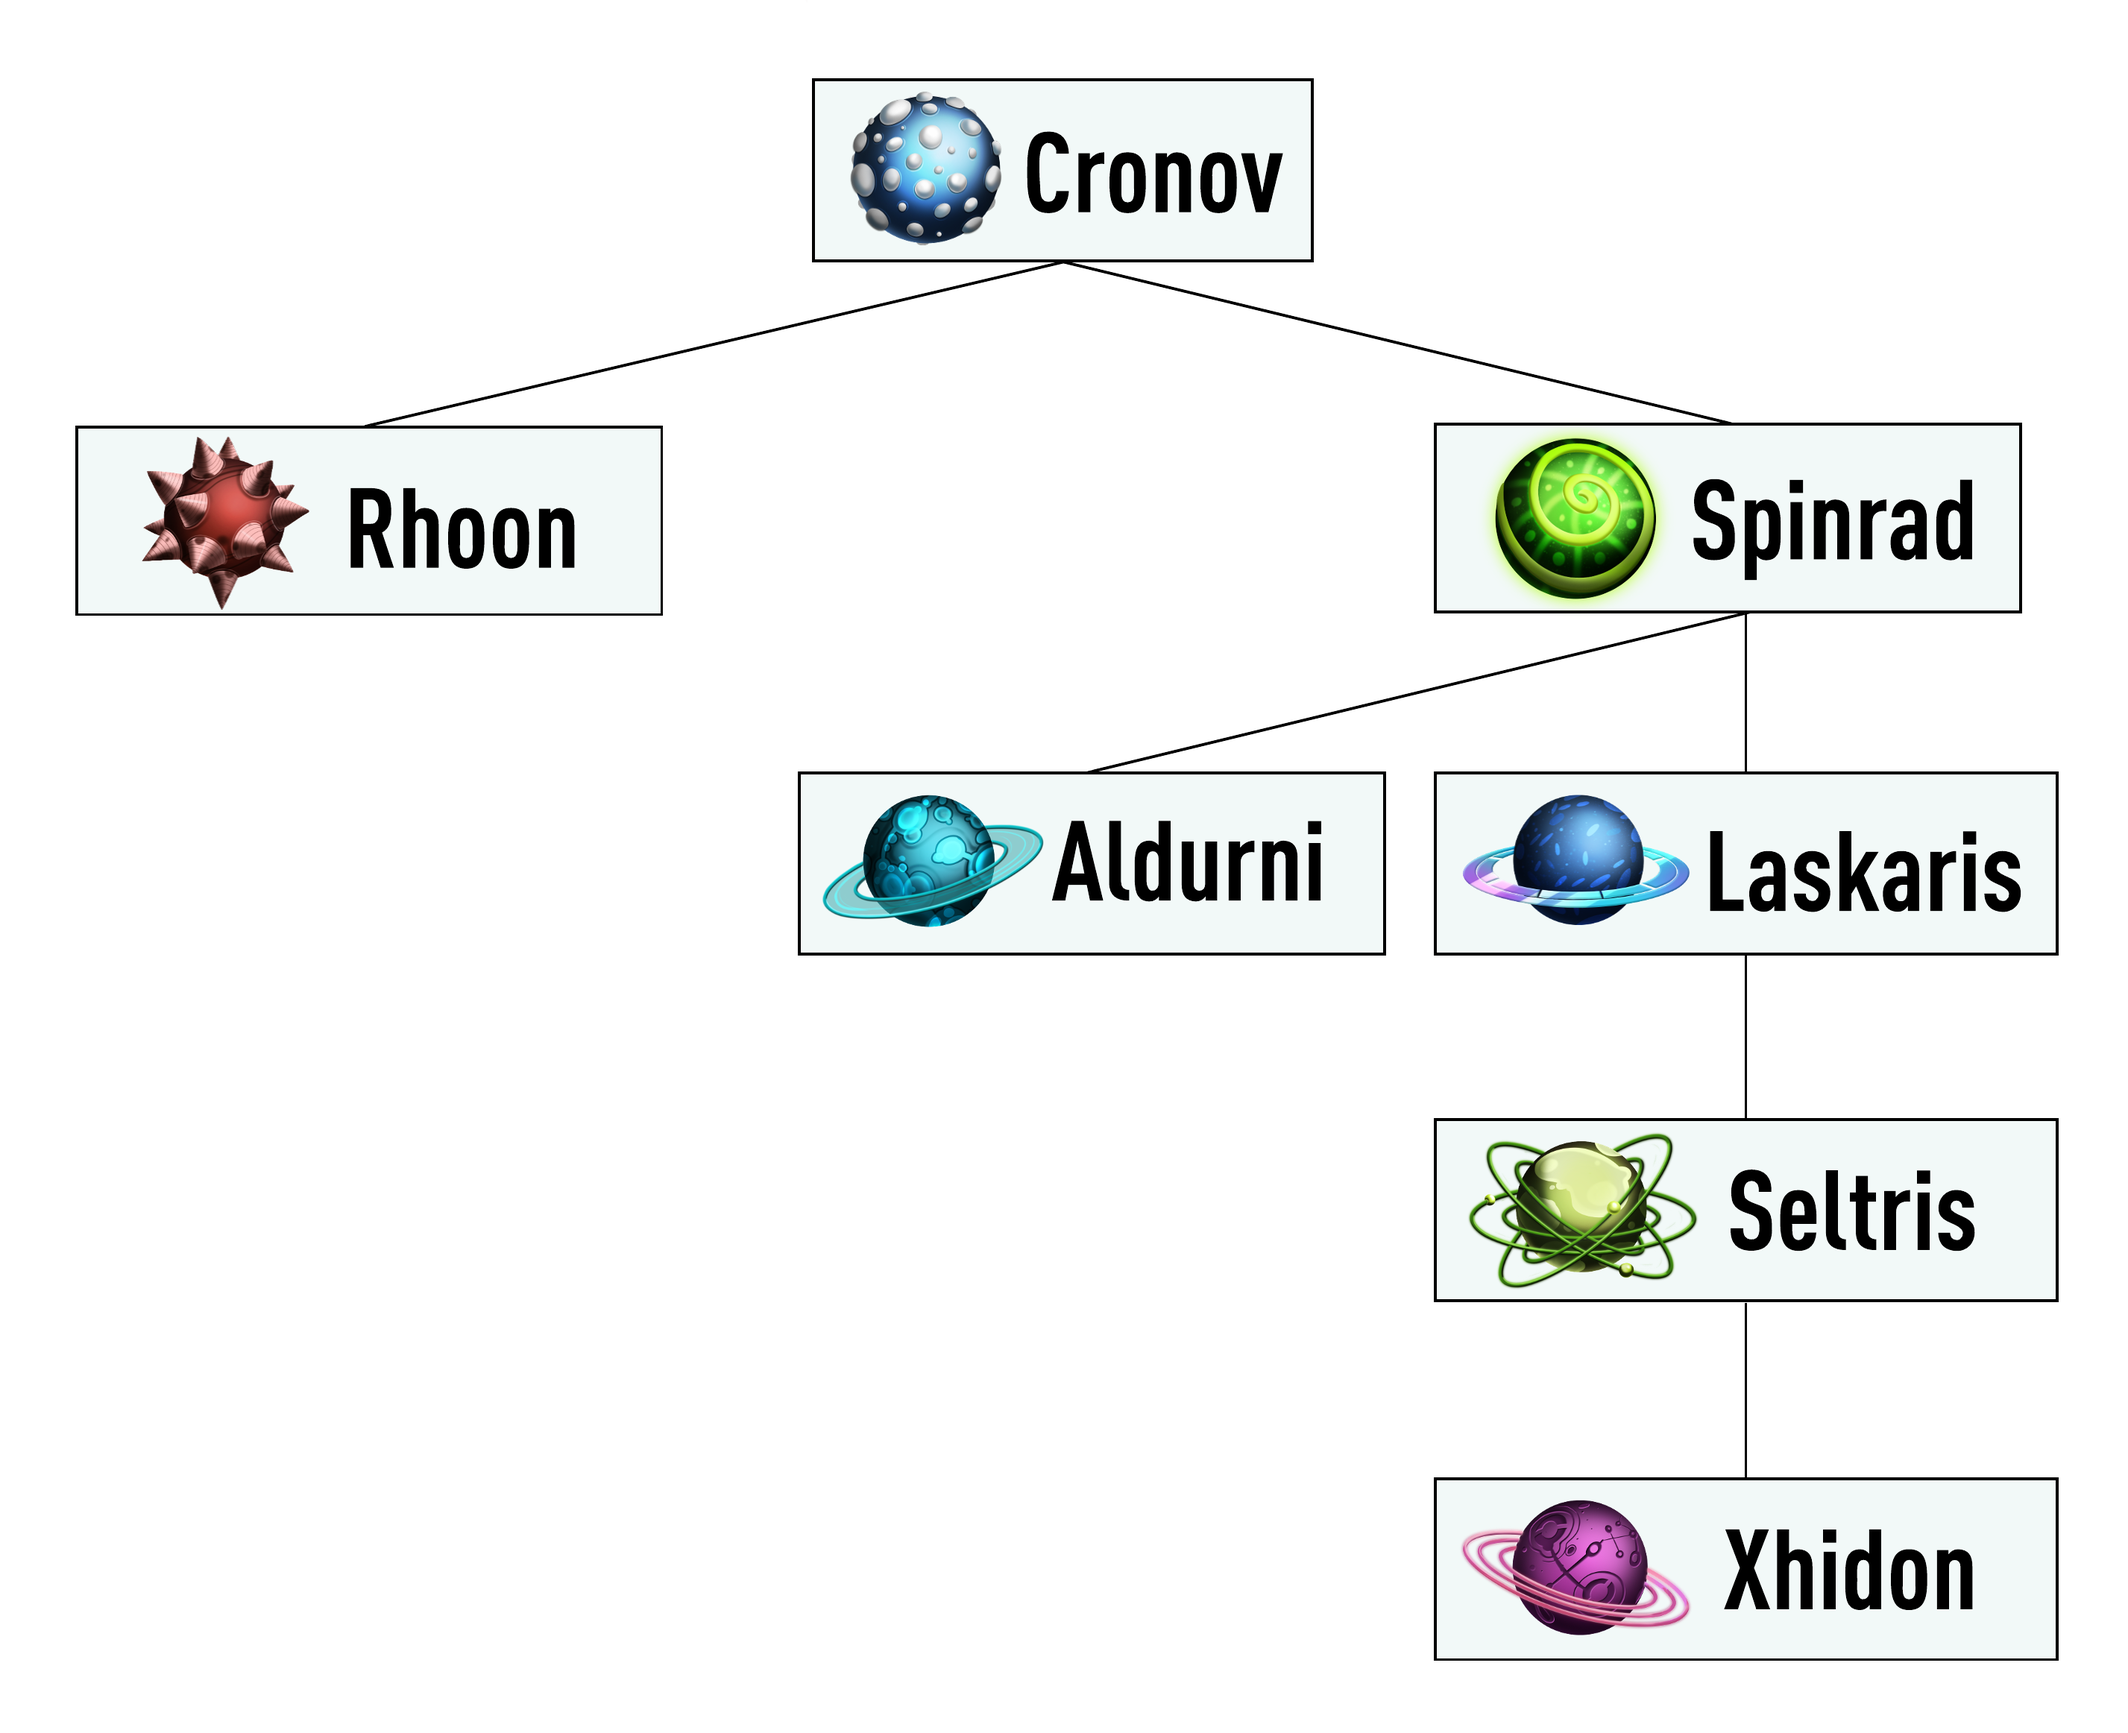
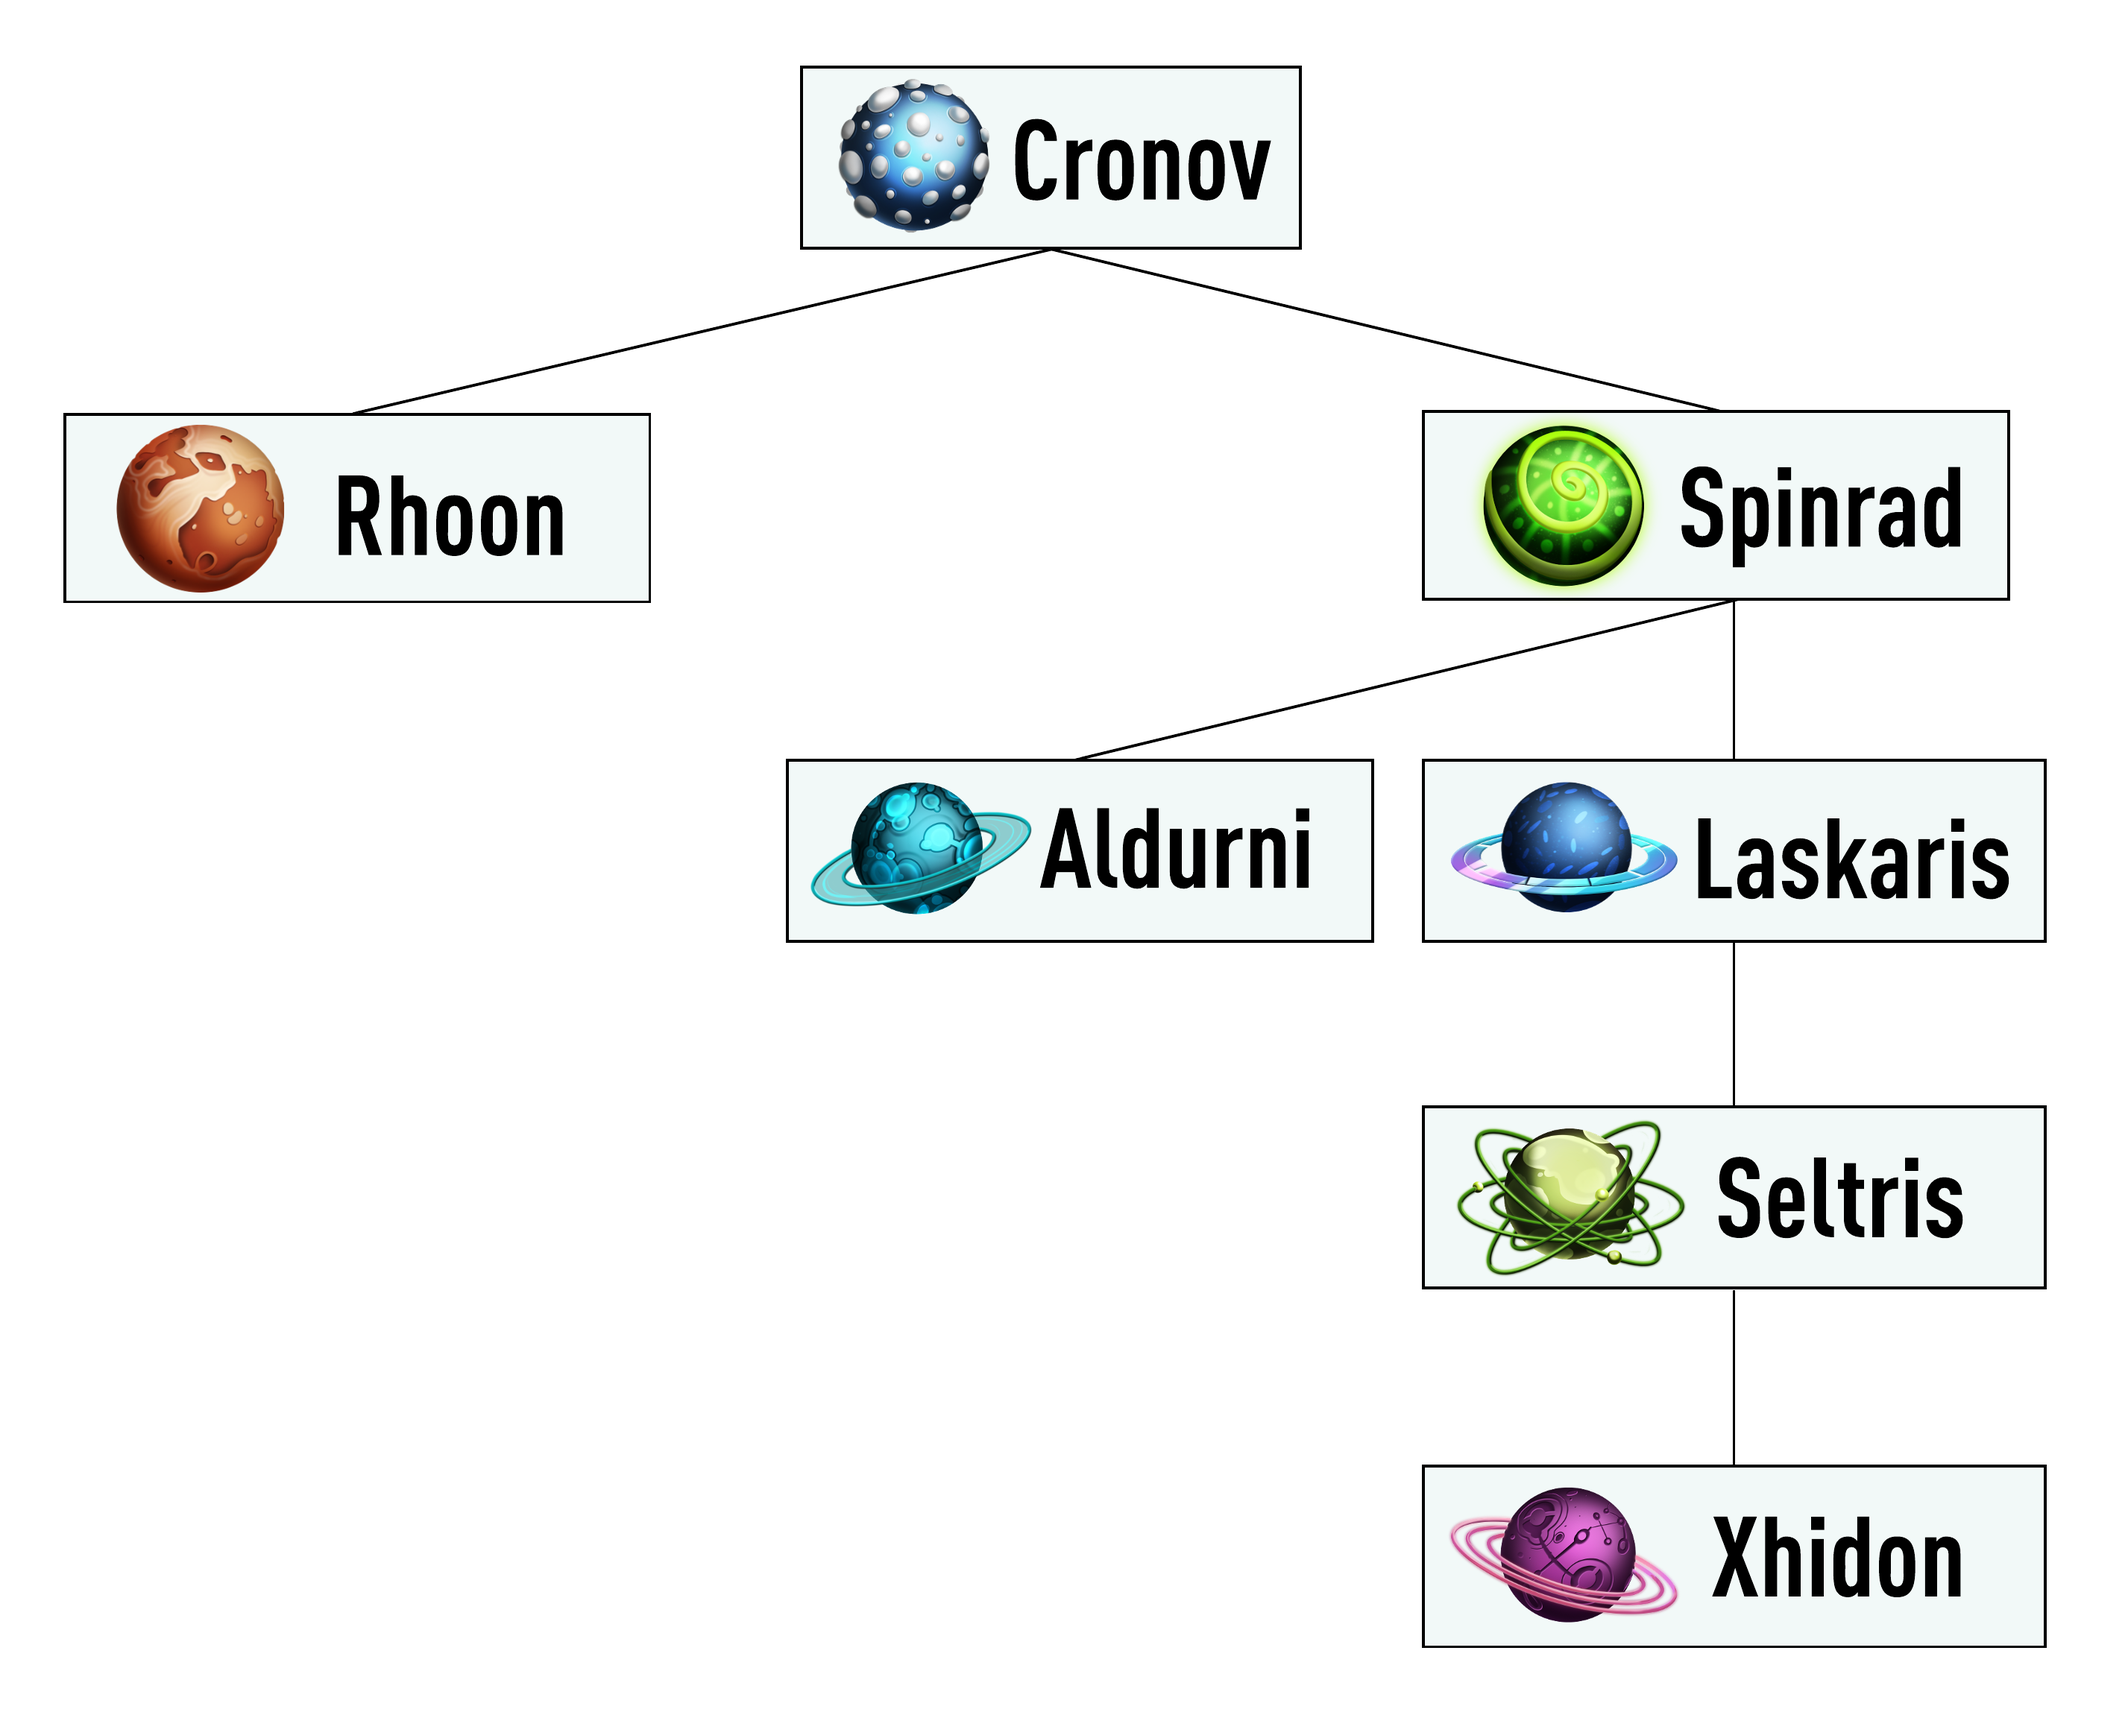
Added the Rhoon image, and solved some typos.

diff --git a/README.md b/README.md
@@ -20,17 +20,18 @@ The main goal of this project is to show you an operating procedure to deploy an
   * A Bash library called [Zemni](https://github.com/v8tix/zemni), 
   * A set of Docker containers built using Zemni:
     * [Cronov](https://github.com/v8tix/cronov)
+    * [Rhoon](https://github.com/v8tix/rhoon)
     * [Spinrad](https://github.com/v8tix/spinrad)
     * [Laskaris](https://github.com/v8tix/laskaris)
     * [Seltris](https://github.com/v8tix/seltris)
     * [Aldurni](https://github.com/v8tix/aldurni)
     * [Xhidon](https://github.com/v8tix/xhidon)
       * Each container forms an inheritance relationship as it's shown in the following figure:
-      ![k8sb inheritance](./resources/k8sb-inheritance.png)
+      ![k8sb inheritance](resources/k8sb-inheritance.png)
   * The [Social](https://github.com/v8tix/social) microservice, and    
   * The [social2k8s](https://github.com/v8tix/social2k8s) project.    
 ### 2. The k8sb's images contexts.
-* Each image was built taken into account four main contexts:
+* Each image was build taken into account four main contexts:
   * Configuration and packages:
     * Used to initialize the necessary repositories, and the system packages.
   * External libraries.
@@ -42,7 +43,7 @@ The main goal of this project is to show you an operating procedure to deploy an
 * In the following figure, you can appreciate an example of these contexts:
 ![cronov contexts](./resources/cronov-contexts.png)
 ### 3. The Social microservice.
-* In order to run the Seltris, and the Xhidon image, you need a Spring Boot application. The Social microservice is a good fit because its configuration was externalized.
+* In order to run the Seltris, and the Xhidon image, you need a Spring Boot application. The Social microservice is a good fit because its configuration was externalize.
 * You can find more information about how to set up this microservice by following this [link](https://github.com/v8tix/social).  
 ### 4. Why k8sb is important?
 * Help you to keep your artifacts well organized. 
